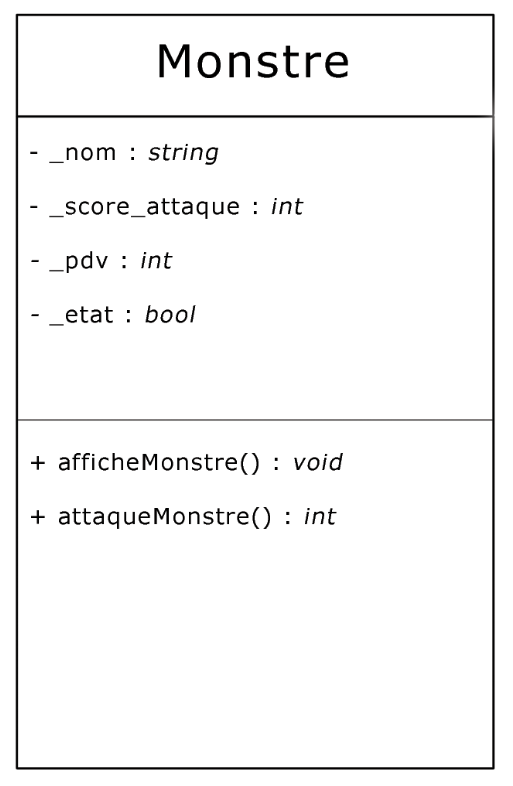
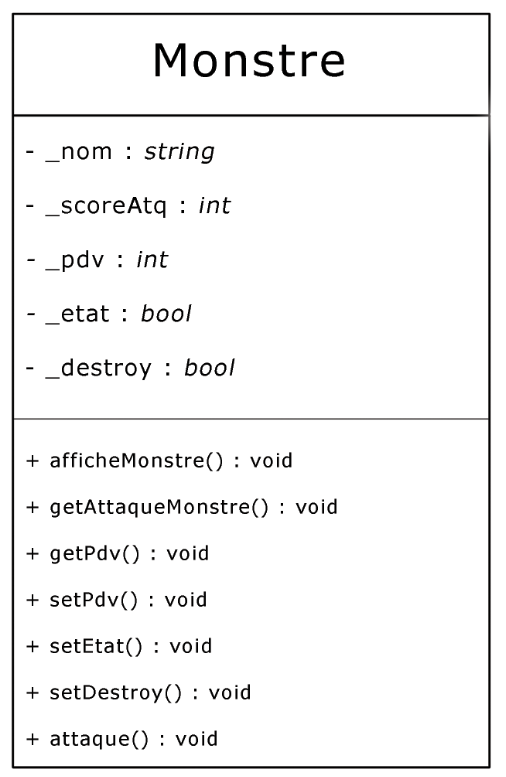
class_monstre+attaque

diff --git a/Monstre.cpp b/Monstre.cpp
@@ -5,6 +5,54 @@
 #include <iostream>
 
 
+Monstre::Monstre(std::string nom, int scoreAtq, int pdv) : _nom(nom), _scoreAtq(scoreAtq), _pdv(pdv), _etat(true), _destroy(false){}
+
+void Monstre::afficheMonstre(){
+    std::cout << "-------------"<< std::endl;
+    std::cout << "Carte Monstre"<< std::endl;
+    std::cout << "Nom : " << _nom << std::endl;
+    std::cout << "Points de vie : " << _pdv << std::endl;
+    std::cout << "Dégâts d'attaque :" << _scoreAtq << std::endl;
+    if(_etat == true){
+        std:: cout << "Etat : Disponible" << std::endl;
+    }
+    else{
+        std:: cout << "Etat : Epuisé" << std::endl;
+    }
+}
+
+void Monstre::getAttaqueMonstre(){
+    return _scoreAtq;
+}
+
+void Monstre::getPdv(){
+    return _pdv;
+}
+
+void Monstre::setPdv(int pdvMonstre){
+    _pdv = pdvMonstre;
+}
+
+void Monstre::setEtat(bool etatMonstre){
+    _etat = etatMonstre;
+}
+
+void Monstre::setDestroy(bool destroyMonstre){
+    _destroy = destroyMonstre;
+}
+
+void attaque(){
+    monstre.setPdv(monstre.getPdv()-_scoreAtq);
+    _pdv -= monstre.getAttaqueMonstre();
+    if(monstre.getPdv() <= 0){
+        monstre.setPdv(0);
+    }
+    if(_pdv == 0){
+        _destroy = true;
+    }
+    _etat = false;
+}
+
 
 
 #endif

diff --git a/Monstre.h b/Monstre.h
@@ -8,20 +8,32 @@ class Monstre{
 
     private:
 
+        std::string _nom;
+        int _scoreAtq;
+        int _pdv;
+        bool _etat;
+        bool _destroy;
         
         
     public:
-        
-        
+     
+        void afficheMonstre();
 
-        
+        void getAttaqueMonstre();
 
-        
+        void getPdv();
 
-        void affiche();
-        
+        void setPdv(int pdvMonstre);
+
+        void setEtat(bool etatMonstre);
+
+        void setDestroy(bool destroyMonstre);
+
+        void attaque (Monstre monstre);
+
         
         Monstre();
+        Monstre(std::string nom,int pdv,int scoreAtq);
         
 };
 

diff --git a/main.cpp b/main.cpp
@@ -7,7 +7,13 @@
 int main(){
 
 
-    
-    
+    Monstre Monstre1 =Monstre("Monstre1",15,10);
+    Monstre Monstre2=Monstre("Monstre2",10,5);
+
+    Monstre1.afficherMonstre();
+    Monstre2.afficheMonstre();
+
+    monstre1.attaque(Monstre2);
+
     return 0;
 }
